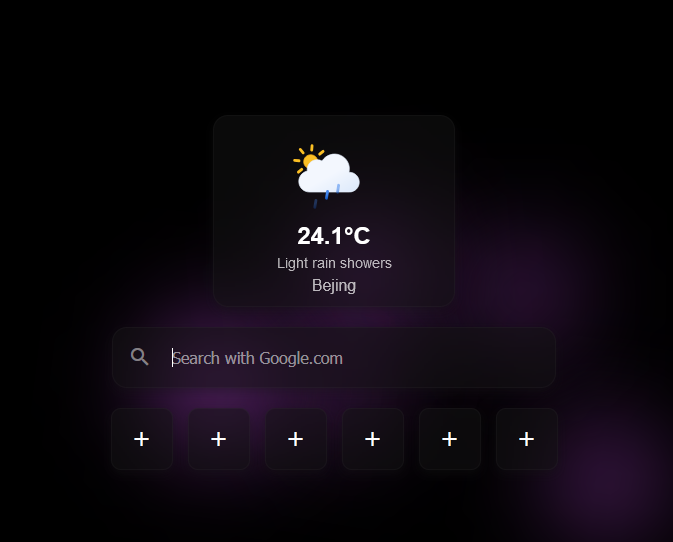
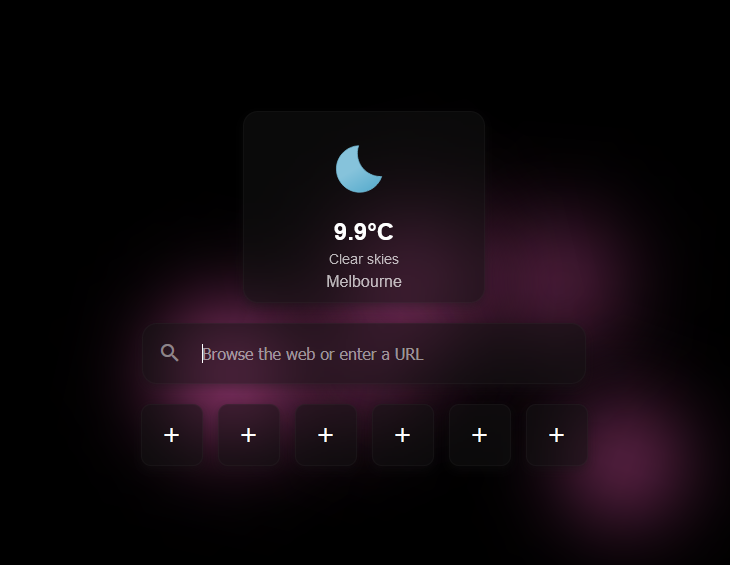
Update night time logic to use city's local time

diff --git a/script.js b/script.js
@@ -422,7 +422,9 @@ function updateWeatherDataByCity(city) {
             document.getElementById('temperature').innerText = `${data.current.temp_c}°C`;
             document.getElementById('condition').innerText = getConditionDescription(data.current.condition.text);
             document.getElementById('location').innerText = data.location.name;
-            getWeatherIcon(data.current.condition.text);
+            const localTime = data.location.localtime;
+            const isNight = checkIfNight(localTime);
+            getWeatherIcon(data.current.condition.text, isNight);
             showWeatherData();
         })
         .catch(error => {
@@ -430,7 +432,12 @@ function updateWeatherDataByCity(city) {
         });
 }
 
-function getWeatherIcon(weather) {
+function checkIfNight(localTime) {
+    const hour = new Date(localTime).getHours();
+    return hour >= 21 || hour < 6;
+}
+
+function getWeatherIcon(weather, isNight) {
     const iconMap = {
         'Sunny': { day: 'clear-day.svg', night: 'clear-night.svg' },
         'Clear': { day: 'clear-day.svg', night: 'clear-night.svg' },
@@ -457,8 +464,6 @@ function getWeatherIcon(weather) {
         'Other': { day: 'star.svg', night: 'star.svg' }
     };
 
-    const hour = new Date().getHours();
-    const isNight = hour >= 21 || hour < 6;
     const variant = isNight ? 'night' : 'day';
 
     const weatherIconFile = iconMap[weather] ? iconMap[weather][variant] : iconMap['Other'][variant];

diff --git a/docs/readme.md b/docs/readme.md
@@ -1,6 +1,6 @@
 # Dark Glassmorphism Startpage
 
-![Startpage Design](image.gif)
+![Startpage Design](image.png)
 
 A sleek and modern startpage designed with a dark glassmorphism style. This startpage includes a Google search bar, six customizable shortcuts, a weather widget that automatically detects your location, and a customizable background.
 
